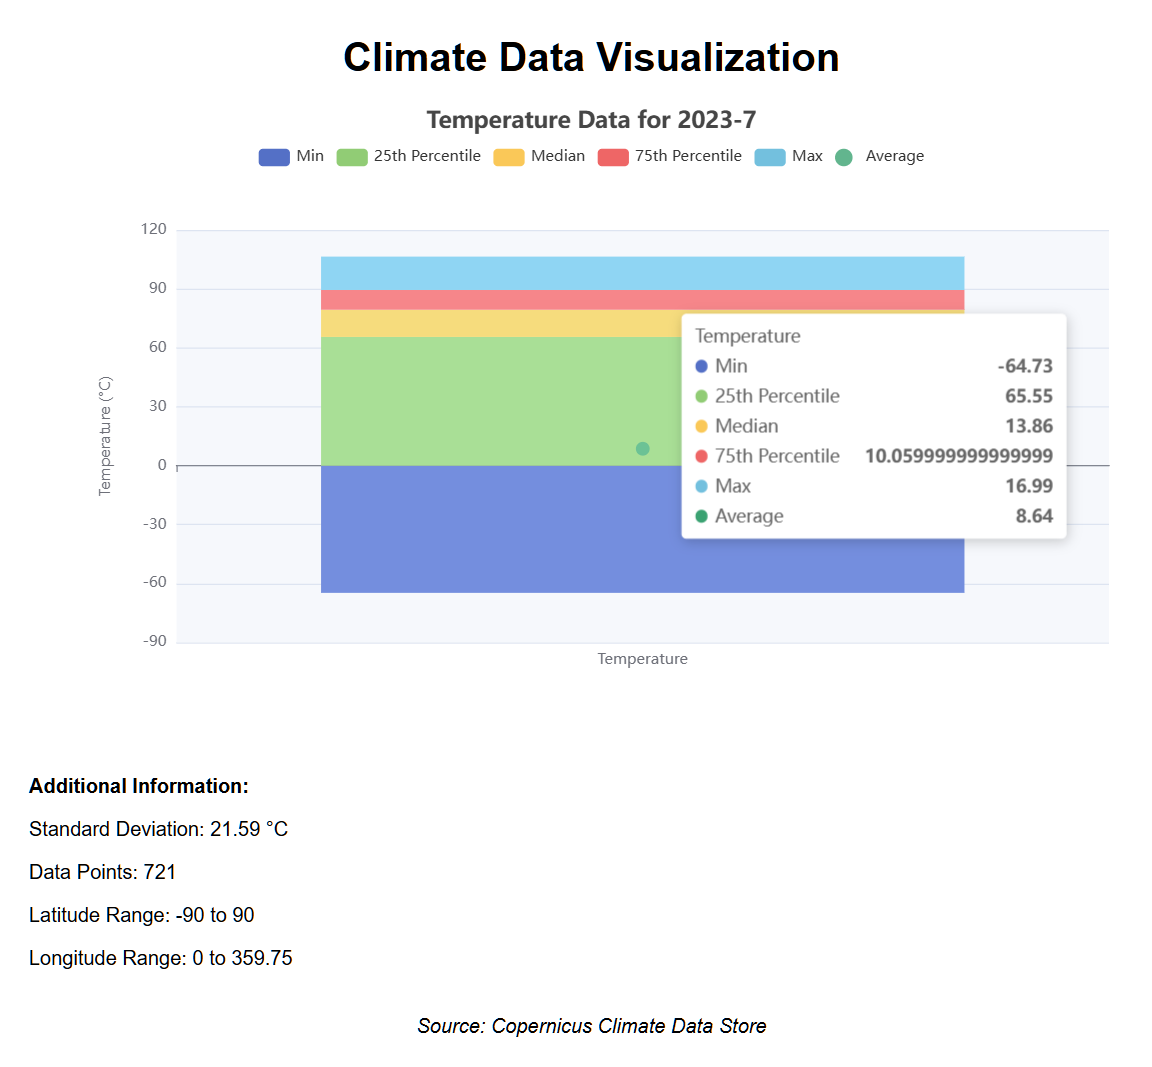
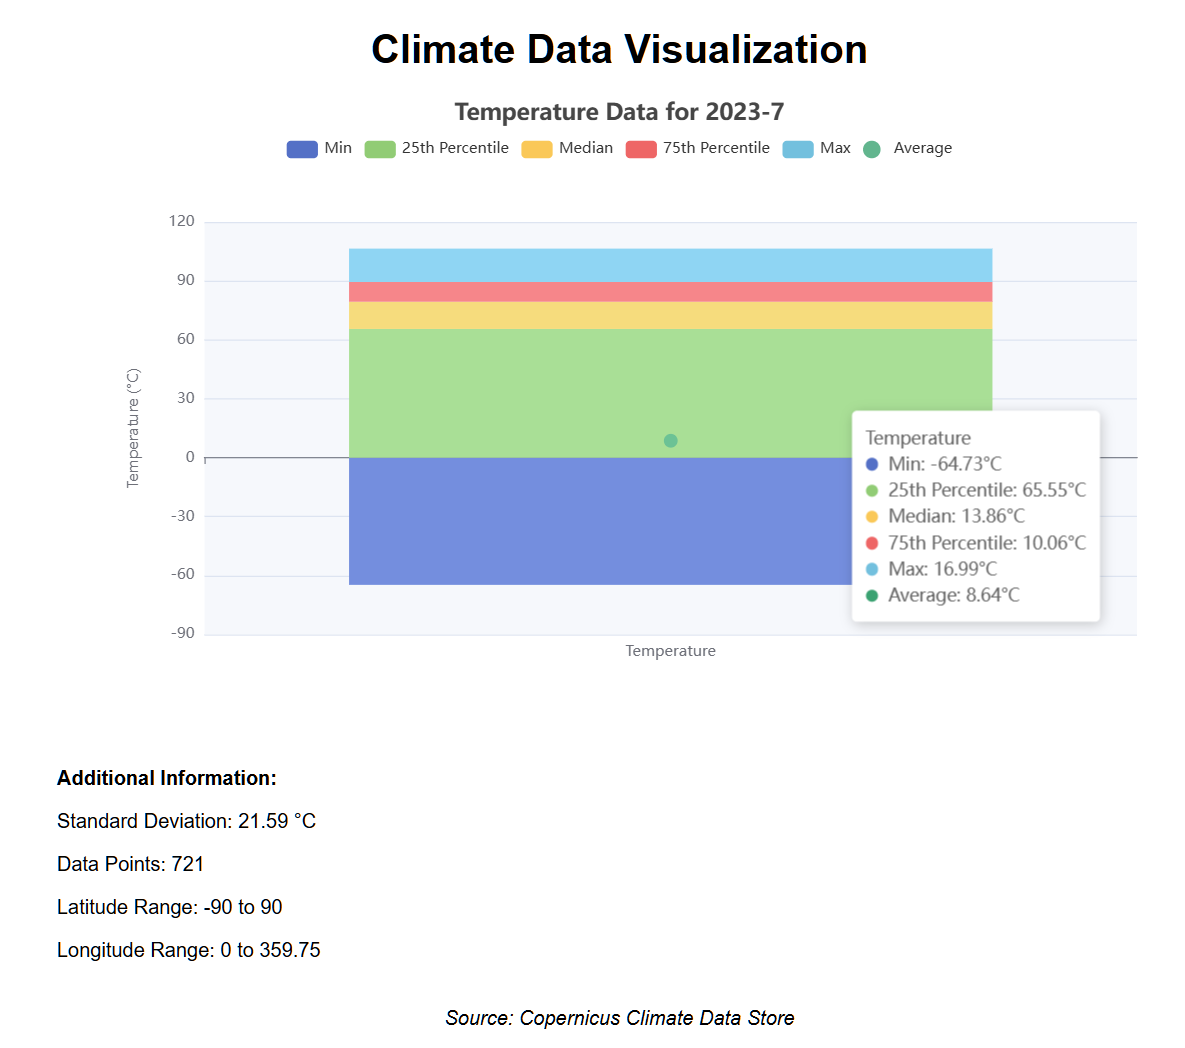
fix tooltip formatting

diff --git a/static/js/visualization.js b/static/js/visualization.js
@@ -16,6 +16,17 @@ function createChart(data) {
             trigger: 'axis',
             axisPointer: {
                 type: 'shadow'
+            },
+            formatter: function(params) {
+                let result = `${params[0].name}<br/>`;
+                params.forEach(param => {
+                    let value = param.value;
+                    if (typeof value === 'number') {
+                        value = value.toFixed(2);
+                    }
+                    result += `${param.marker} ${param.seriesName}: ${value}°C<br/>`;
+                });
+                return result;
             }
         },
         legend: {
